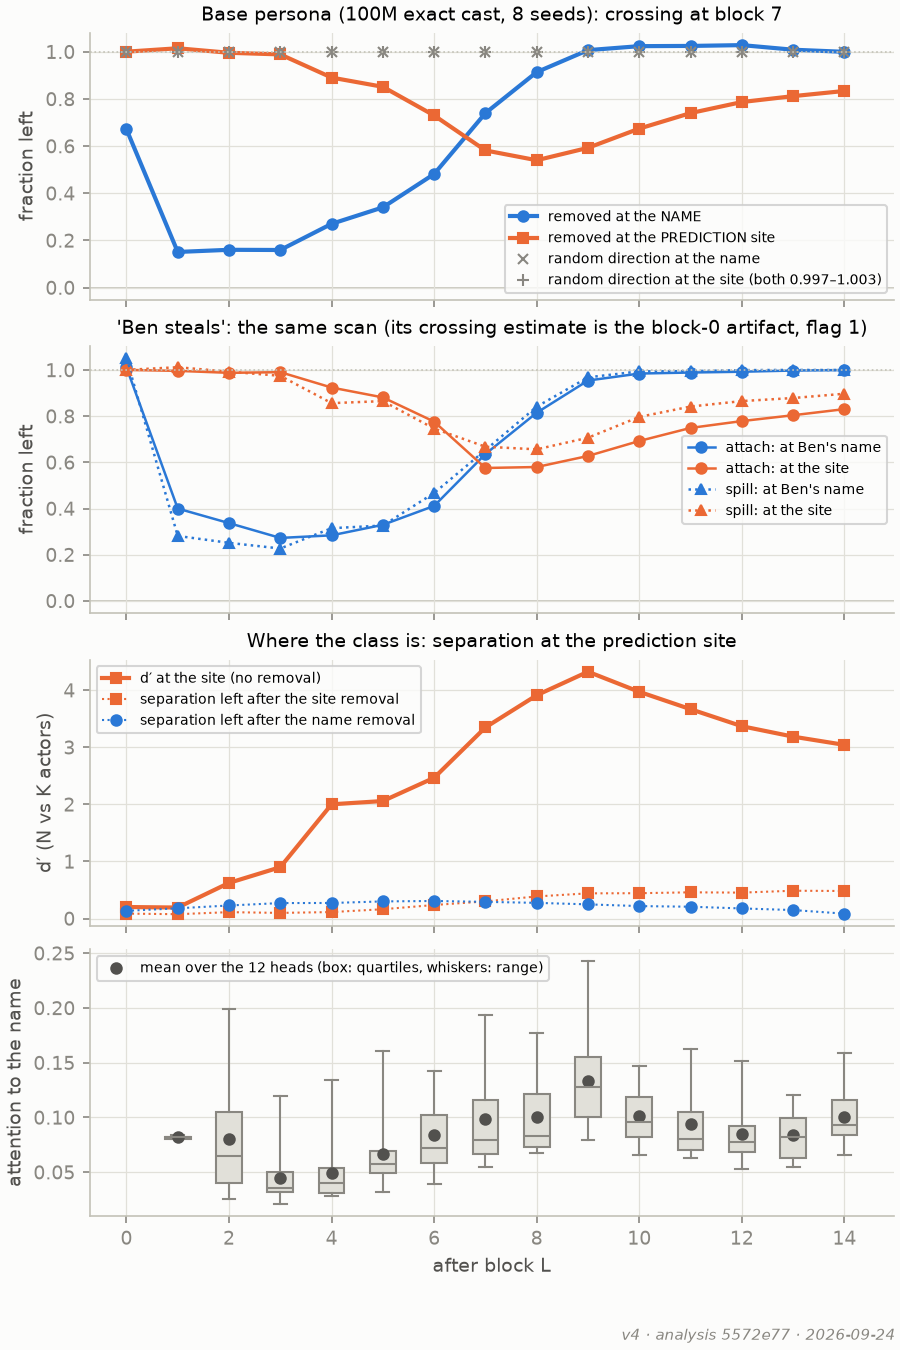
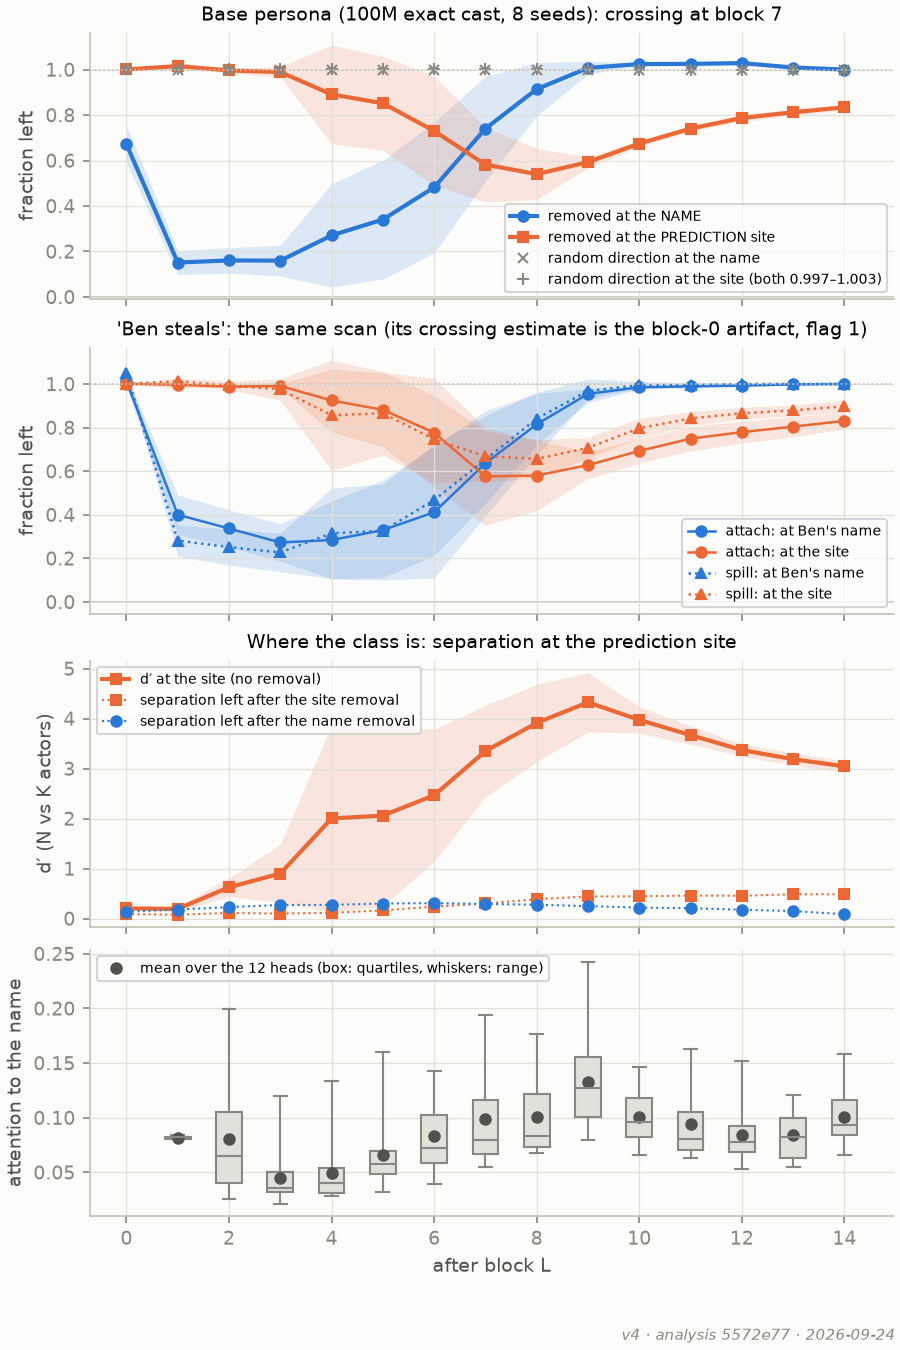
Figures 5a / A5: 95 % t bands over the seeds on every scan and on the site separation.

diff --git a/scripts/plan_figures.py b/scripts/plan_figures.py
@@ -1233,9 +1233,32 @@ def v4_4d(ax):
     ax.legend(loc="lower left", fontsize=7)
 
 
-def draw_flow(axes, c, act="steal"):
-    """Base scan, the finetune's scan, the separation at the site; on axes[0..2] (and attention on axes[3])."""
+def flow_runs(cell):
+    """The per-seed flow records of a cell (analyze_v4's flow.runs)."""
+    return [v for k, v in D["a"]["flow"]["runs"].items() if re.fullmatch(rf"{re.escape(cell)}-s\d+", k)]
+
+
+def seed_band(ax, runs, key, color):
+    """95 % t interval over seeds of a per-block curve, as a band."""
+    import eval_v4 as ev
+
+    rows = [r[key] for r in runs if r.get(key) is not None]
+    if len(rows) < 2:
+        return
+    cis = [ev.ci95(list(col)) for col in zip(*rows, strict=True)]
+    L = np.arange(len(cis))
+    ax.fill_between(L, [c["lo"] for c in cis], [c["hi"] for c in cis], color=color, alpha=0.15, lw=0)
+
+
+def draw_flow(axes, c, act="steal", runs=()):
+    """Base scan, the finetune's scan, the separation at the site; on axes[0..2] (and attention on
+    axes[3]); with `runs` (the cell's seeds), 95 % bands over seeds."""
     L = np.arange(len(c["base_name"]))
+    for key, ax_, col in (("base_name", axes[0], TWO[0]), ("base_site", axes[0], TWO[1]), ("dprime_site", axes[2], TWO[1])):
+        seed_band(ax_, runs, key, col)
+    for part in ("attach", "spill"):
+        for pos, col in (("name", TWO[0]), ("site", TWO[1])):
+            seed_band(axes[1], runs, f"{act}_{part}_{pos}", col)
     axes[0].plot(L, c["base_name"], "o-", color=TWO[0], label="removed at the NAME")
     axes[0].plot(L, c["base_site"], "s-", color=TWO[1], label="removed at the PREDICTION site")
     # the control: a random direction removed instead (three per position); its band is ~0.006 wide
@@ -1268,7 +1291,7 @@ def v4_5a(ax):
     if not c:
         no_data(axes[0], "flow scans")
         return None
-    draw_flow(axes, c)
+    draw_flow(axes, c, runs=flow_runs(f"v4-lex-y100-{FLOW_MAIN}"))
     if c.get("attn_to_name"):
         # the heads of one block as a distribution (a head index means nothing across blocks, so
         # no line joins heads between blocks): box = quartiles, whiskers = min and max, dot = mean
@@ -1545,7 +1568,7 @@ def v4_A5(ax):
         if not c:
             no_data(axes[0, j], cell)
             continue
-        draw_flow(axes[:, j], c)
+        draw_flow(axes[:, j], c, runs=flow_runs(cell))
         axes[2, j].set_xlabel("after block L")
     axes[0, 0].legend(fontsize=6)
     axes[1, 0].legend(fontsize=6)
